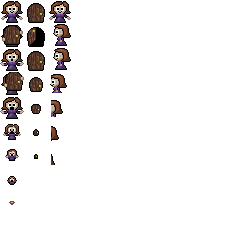
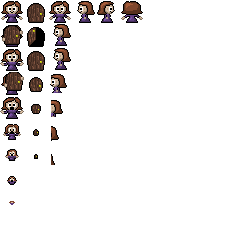
directional sprites

Changed region(s): [[0.3208, 0.0, 0.6125, 0.1167]]

diff --git a/levels/Objects.tsx b/levels/Objects.tsx
@@ -19,6 +19,24 @@
    <property name="frame" value="0"/>
   </properties>
  </tile>
+ <tile id="3">
+  <properties>
+   <property name="name" value="player"/>
+   <property name="state" value="left-default"/>
+  </properties>
+ </tile>
+ <tile id="4">
+  <properties>
+   <property name="name" value="player"/>
+   <property name="state" value="right-default"/>
+  </properties>
+ </tile>
+ <tile id="5">
+  <properties>
+   <property name="name" value="player"/>
+   <property name="state" value="up-default"/>
+  </properties>
+ </tile>
  <tile id="10">
   <properties>
    <property name="name" value="player"/>

diff --git a/src/object.py b/src/object.py
@@ -1,5 +1,5 @@
 ### Contains definition of Game Objects
-from game import FRAME_DELAY, ANIM_DELAY
+from game import FRAME_DELAY, ANIM_DELAY, UP, DOWN, LEFT, RIGHT
 
 
 class GameObject(object):
@@ -15,6 +15,7 @@ class GameObject(object):
         self.contained = []
         self.destroyed = False
         self.flags = {}
+        self.direction = DOWN
 
         self.z = 10
         self.char = char
@@ -26,7 +27,7 @@ class GameObject(object):
         self.animation_callback = lambda: None
 
         self.history = []
-        self.track_properties = ('_location', 'container', 'contained', 'destroyed', 'flags', 'char', 'block_sight', 'block_move', 'block_door', 'state', 'animation', 'animation_callback', 'move_dir', 'move_turns', 'move_to')
+        self.track_properties = ('_location', 'direction', 'container', 'contained', 'destroyed', 'flags', 'char', 'block_sight', 'block_move', 'block_door', 'state', 'animation', 'animation_callback', 'move_dir', 'move_turns', 'move_to')
 
         self.mass = 1
         self.move_dir = None
@@ -89,9 +90,12 @@ class GameObject(object):
                 self.animation = None
                 self.animation_done()
                 return None
-        try:
+        dir = ['up', 'down', 'left', 'right'][self.direction]
+        if dir + '-' + self.state in self.state_images:
+            return self.state_images[dir + '-' + self.state]
+        elif self.state in self.state_images:
             return self.state_images[self.state]
-        except KeyError:
+        else:
             return self.state_images['default']
 
     def animate(self, name, callback=lambda: None):

diff --git a/src/game.py b/src/game.py
@@ -177,6 +177,7 @@ class Game:
 
     def pickup(self, direction):
         pickup_loc = self.coords_in_dir(self.player.location, direction, 1)
+        self.player.direction = direction
 
         success = False
         for obj in self.get_objects_at(pickup_loc):
@@ -194,6 +195,7 @@ class Game:
         return success
 
     def close(self, direction):
+        self.player.direction = direction
         close_loc = self.coords_in_dir(self.player.location, direction, 1)
         for obj in self.get_objects_at(close_loc):
             if obj.flag('door') and not obj.block_move:
@@ -201,6 +203,7 @@ class Game:
                 return True
 
     def throw(self, direction):
+        self.player.direction = direction
         success = False
         for obj in self.player.contained:
             self.player.remove(obj)
@@ -229,6 +232,7 @@ class Game:
                 if newloc != self.player.location:
                     if self.can_move_to(self.player, newloc):
                         self.player.location = newloc
+                        self.player.direction = DIR_MAP[e.key]
                         self.sound.step()
                         took_turn = True
                     else:
